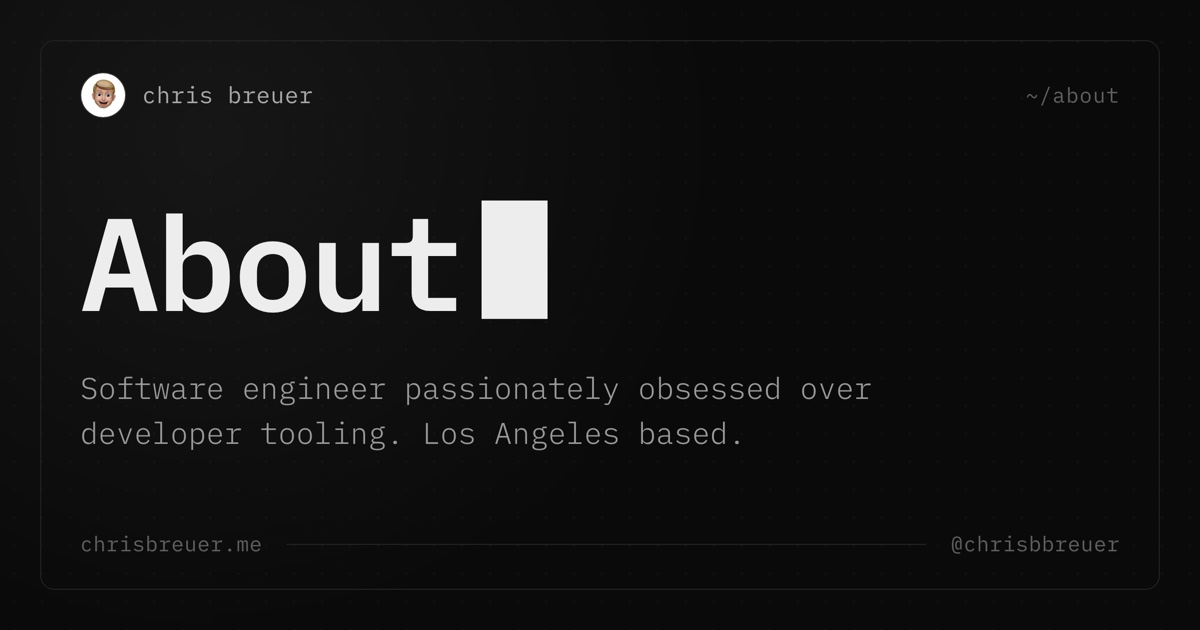
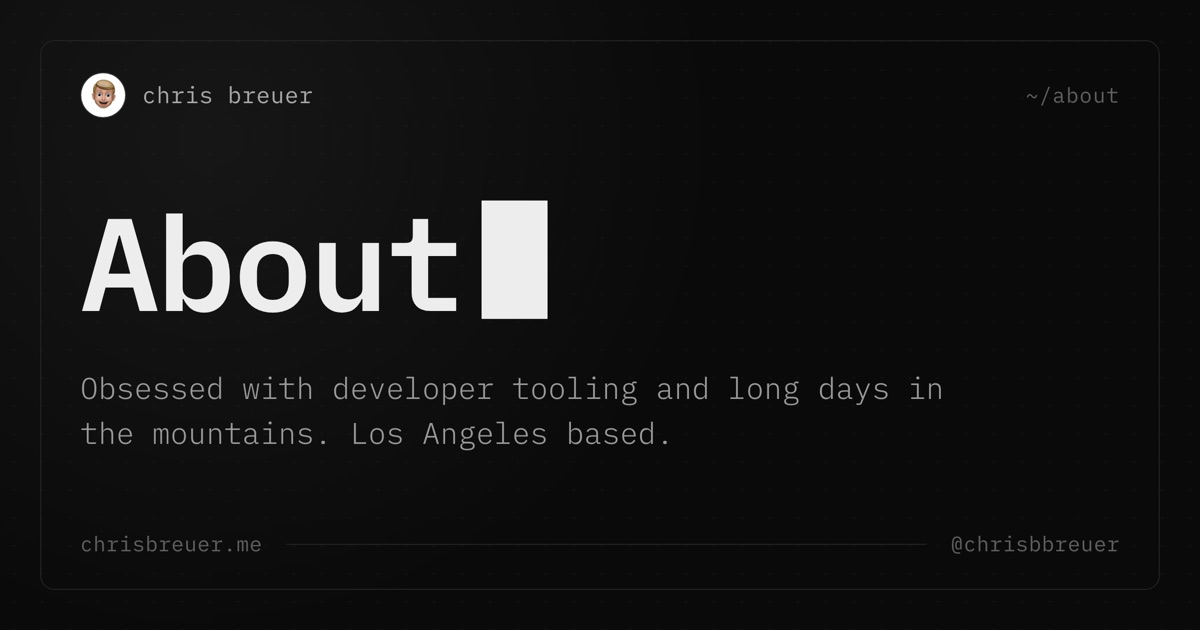
feat: broaden the site's identity beyond software engineering
The hero read "Software engineer, founder & dog person", which framed the
whole site as an engineering-only thing. It now leads with skyrunning as
the other half: the home hero and lead, the about bio and portrait note,
page titles/descriptions, and the home + about OG cards.

OG cards regenerated from scripts/build-og.ts.

diff --git a/scripts/build-og.ts b/scripts/build-og.ts
@@ -20,13 +20,13 @@ const cards: Card[] = [
     slug: 'home',
     path: '~',
     title: 'Chris Breuer',
-    desc: 'Software engineer and founder of Stacks. Notes on developer tooling, TypeScript, and Bun.',
+    desc: 'Software engineer, founder of Stacks, skyrunner. Notes on developer tooling and long days in the mountains.',
   },
   {
     slug: 'about',
     path: '~/about',
     title: 'About',
-    desc: 'Software engineer passionately obsessed over developer tooling. Los Angeles based.',
+    desc: 'Obsessed with developer tooling and long days in the mountains. Los Angeles based.',
   },
   {
     slug: 'projects',
